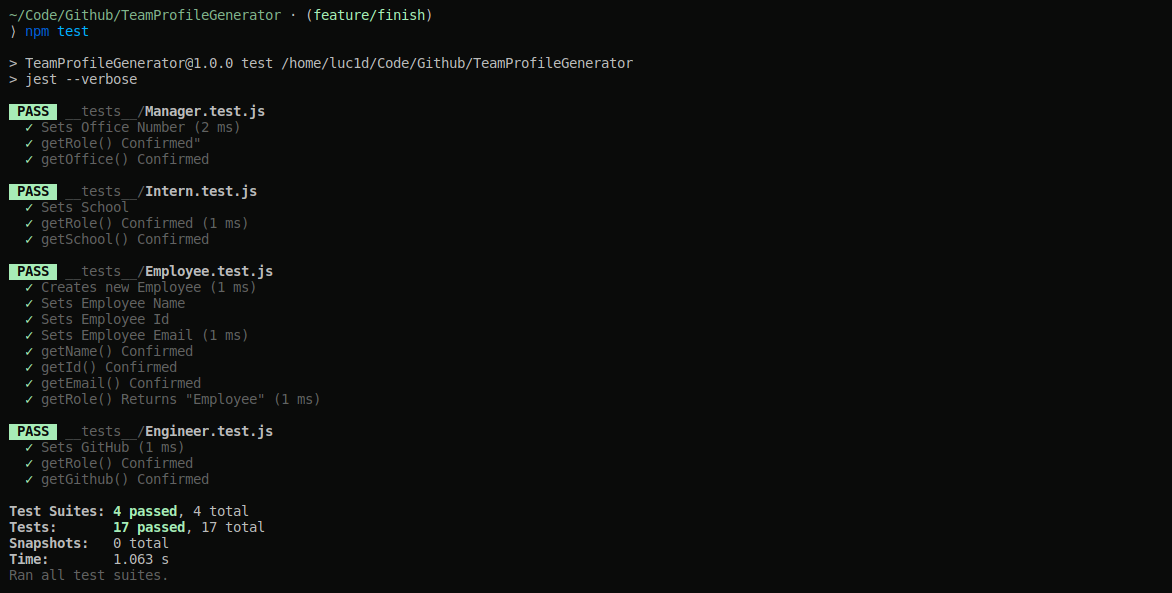
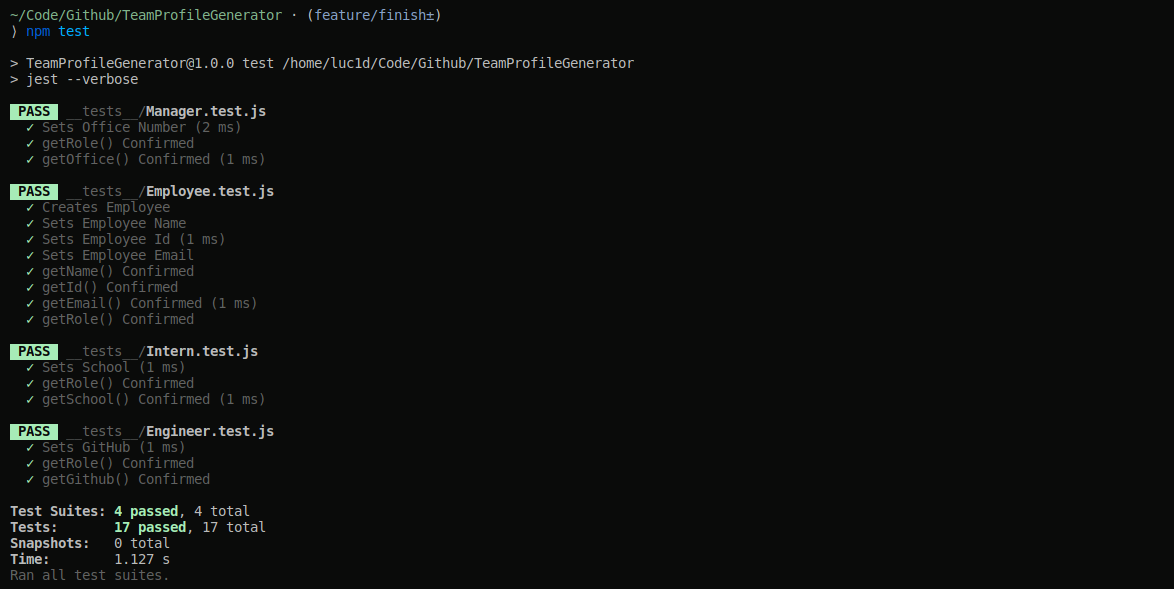
Finished

diff --git a/dist/index.html b/dist/index.html
@@ -66,7 +66,7 @@
     
               <div class="card cardbody">
                 <div class="card-header" id="tab"><p class="name">
-                             Matt Brassey</p>
+                             Anakin Skywalker</p>
                             <div><i class="fa fa-user-tie"></i> Manager</div>
                             </div>
                 <div class="card-body">
@@ -75,10 +75,10 @@
                         <label for="reserve-unique-id" id="reserve-unique-id">ID: 1 </label>
                     </div>
                     <div class="form-group">
-                      <label for="reserve-email" id="reserve-email">Email: <a href="mailto:matt@brassey.io">matt@brassey.io</a></label>
+                      <label for="reserve-email" id="reserve-email">Email: <a href="mailto:anakin@skywalker.io">anakin@skywalker.io</a></label>
                     </div>
                     <div class="form-group">
-                        <label for="reserve-phone" id="github">Office Number: 1</label>
+                        <label for="reserve-phone" id="github">Office Number: 7</label>
                     </div>
                     </form>
                 </div>
@@ -108,19 +108,19 @@
 
               <div class="card cardbody">
                 <div class="card-header" id="tab"><p class="name">
-                             Matt Brassey</p>
+                             Harry Potter</p>
                             <div><i class="fa fa-user-graduate"></i> Intern</div>
                             </div>
                 <div class="card-body">
                   <form role="form">			
                     <div class="form-group">
-                        <label for="reserve-unique-id" id="reserve-unique-id">ID: 3 </label>
+                        <label for="reserve-unique-id" id="reserve-unique-id">ID: 4 </label>
                     </div>
                     <div class="form-group">
-                    <label for="reserve-email" id="reserve-email">Email: <a href="mailto:matt@brassey.io">matt@brassey.io</a>
+                    <label for="reserve-email" id="reserve-email">Email: <a href="mailto:harry@potter.io">harry@potter.io</a>
                     </div>
                     <div class="form-group">
-                        <label for="reserve-phone" id="github">School: UAT</label>					
+                        <label for="reserve-phone" id="github">School: HSWW</label>					
                     </div>				
                     </form>
                 </div>

diff --git a/index.js b/index.js
@@ -5,6 +5,8 @@ const Engineer = require("./lib/Engineer");
 const Intern = require("./lib/Intern");
 const Manager = require("./lib/Manager");
 const { generateHTML, writeFile } = require("./src/generateHTML");
+const arg = process.argv[2];
+const version = "1.0.0";
 
 // Initialize Arrays
 const employees = [];
@@ -198,7 +200,29 @@ const promptUser = () => {
 
 // Initialize Application
 function init() {
-  promptUser();
+  // Display Argument Data
+  if (arg === "-h") {
+    console.log(`
+    Usage: node index.js [ -h | -v | -l | -a ]
+    [options]
+    -h          Display this message.
+    -v          Show version.
+    -l          Show license info.
+    -a          What is TeamPortfolioGenerator?
+`);
+  } else if (arg === "-v") {
+    console.log("TeamPortfolioGenerator Version: " + version + ".");
+  } else if (arg === "-l") {
+    console.log(
+      "Published under the Creative Commons Zero v1.0 Universal License."
+    );
+  } else if (arg === "-a") {
+    console.log(
+      "Dev team portfolio generator written in Node.js following the Test Driven Development model with jest."
+    );
+  } else {
+    promptUser();
+  }
 }
 
 init();

diff --git a/__tests__/Employee.test.js b/__tests__/Employee.test.js
@@ -1,6 +1,6 @@
 const Employee = require("../lib/Employee");
 
-test("Creates new Employee", () => {
+test("Creates Employee", () => {
   const i = new Employee();
   expect(typeof i).toBe("object");
 });
@@ -41,7 +41,7 @@ test("getEmail() Confirmed", () => {
   expect(i.getEmail()).toBe(testValue);
 });
 
-test('getRole() Returns "Employee"', () => {
+test("getRole() Confirmed", () => {
   const testValue = "Employee";
   const i = new Employee("Matt", 1, "matt@brassey.io");
   expect(i.getRole()).toBe(testValue);

diff --git a/__tests__/Manager.test.js b/__tests__/Manager.test.js
@@ -6,7 +6,7 @@ test("Sets Office Number", () => {
   expect(i.officeNumber).toBe(test);
 });
 
-test('getRole() Confirmed"', () => {
+test("getRole() Confirmed", () => {
   const test = "Manager";
   const i = new Manager("matt", 1, "matt@brassey.io", 7);
   expect(i.getRole()).toBe(test);
